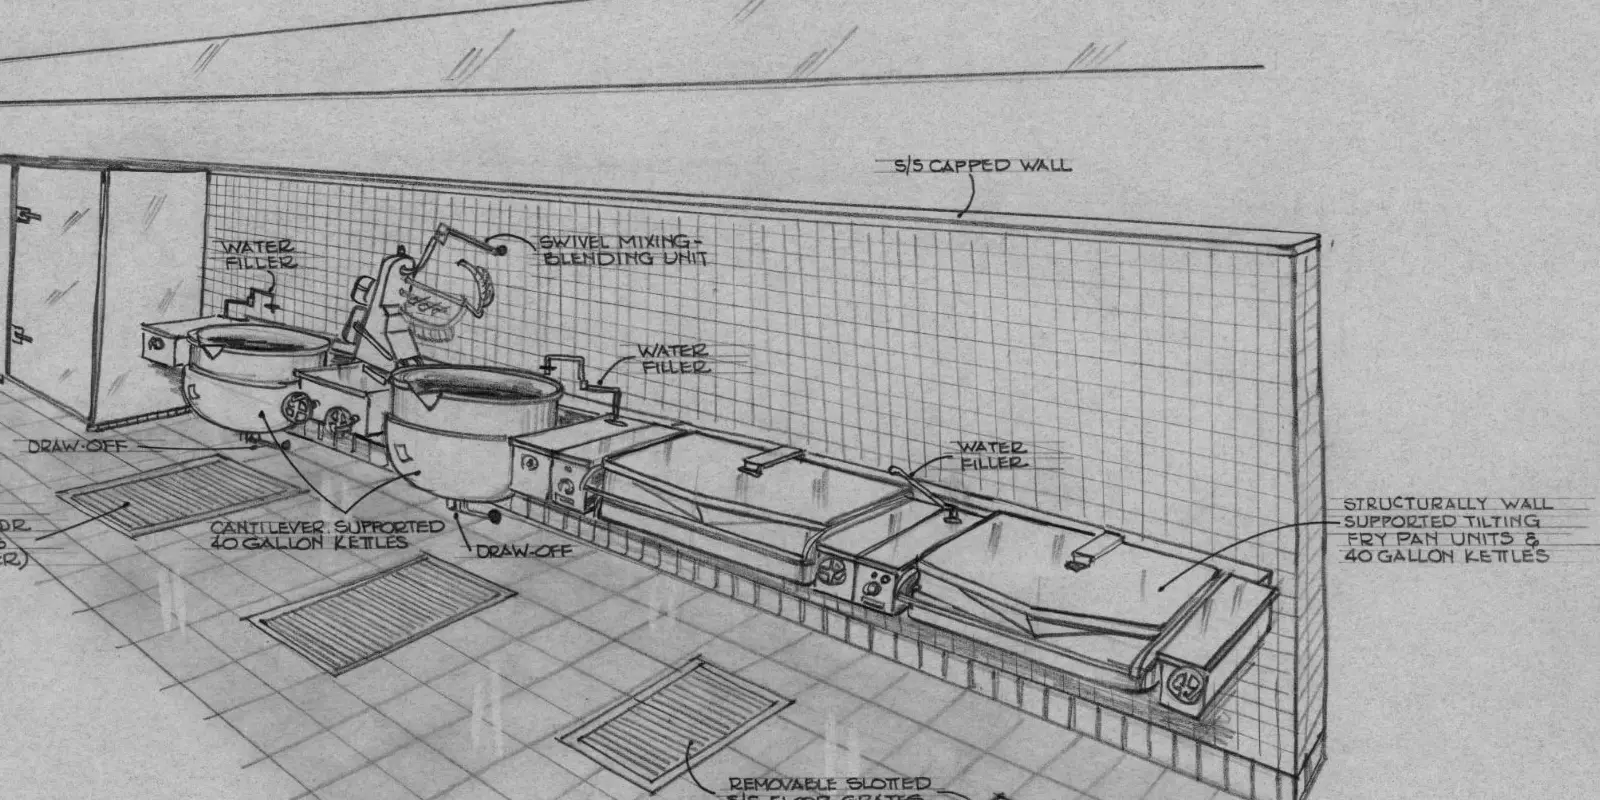
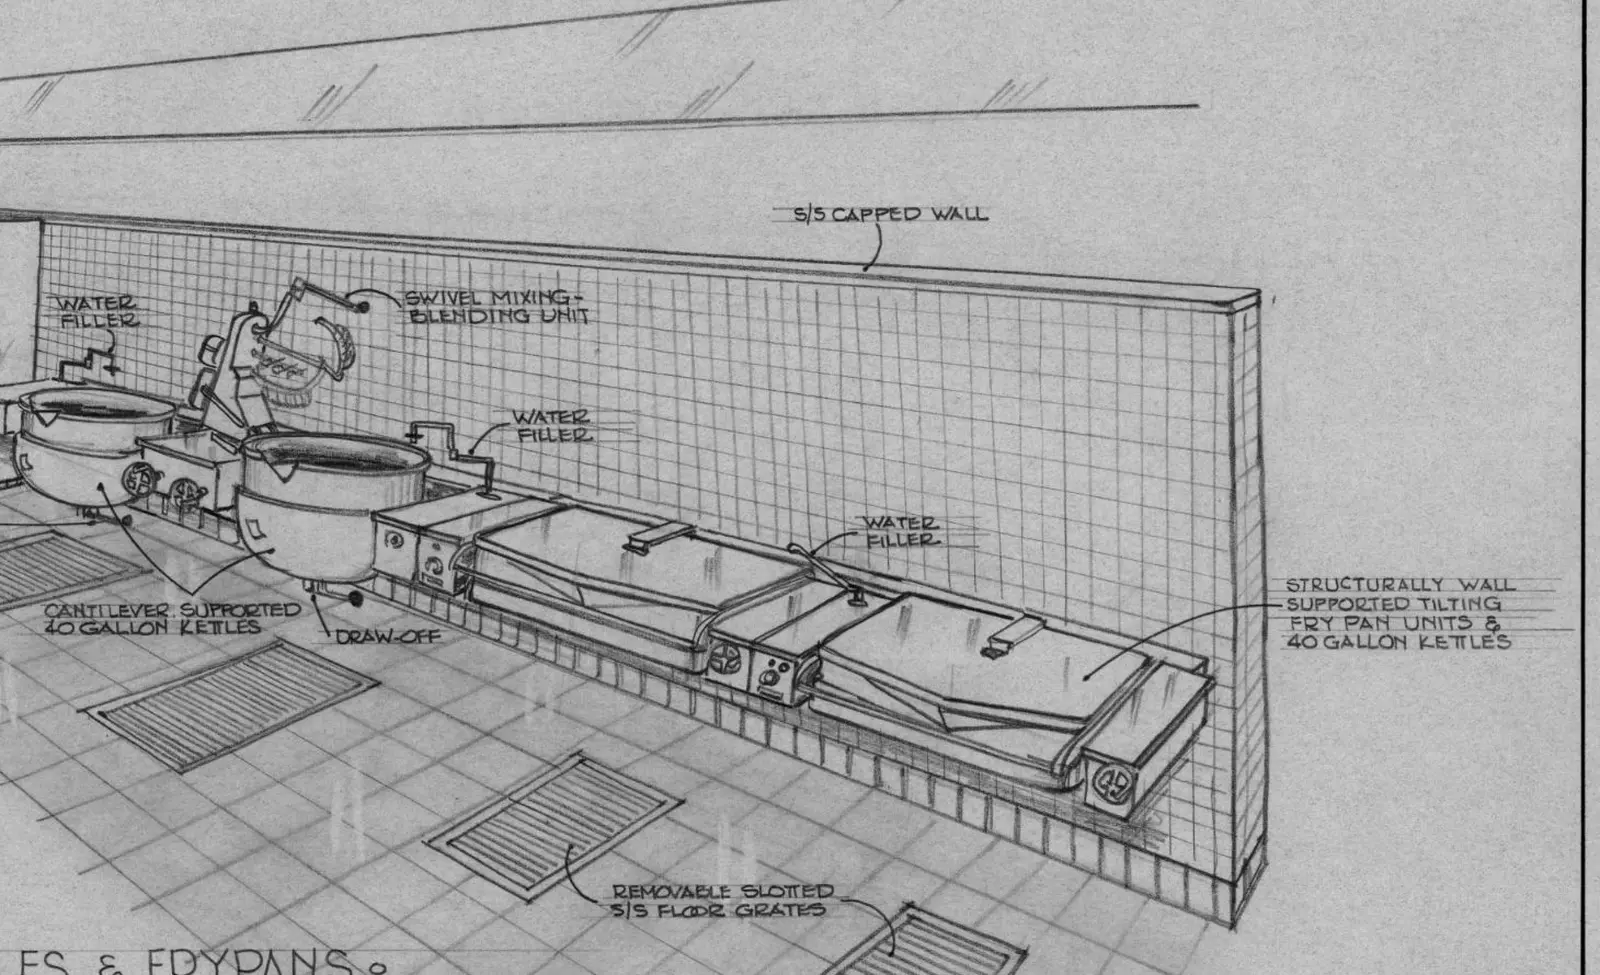
Rebalance heritage watermark + trim About team teaser
- Watermark: re-crop to drop the left-heavy oven block (kettles, fry-pan
  units, floor grates, tile grid spread evenly, lettering upright) and
  raise opacity to .09 for more presence
- About page team teaser: show only the two principals (Melissa, Lance)
  instead of the first four members

diff --git a/src/styles/global.css b/src/styles/global.css
@@ -66,7 +66,7 @@ body::before{
   z-index:-1;
   pointer-events:none;
   background:url('/bg-drawing.webp') center center / cover no-repeat;
-  opacity:.06;
+  opacity:.09;
 }
 @media (prefers-color-scheme: dark){
   :root:not([data-theme="light"]) body::before{opacity:.1;filter:invert(1)}
